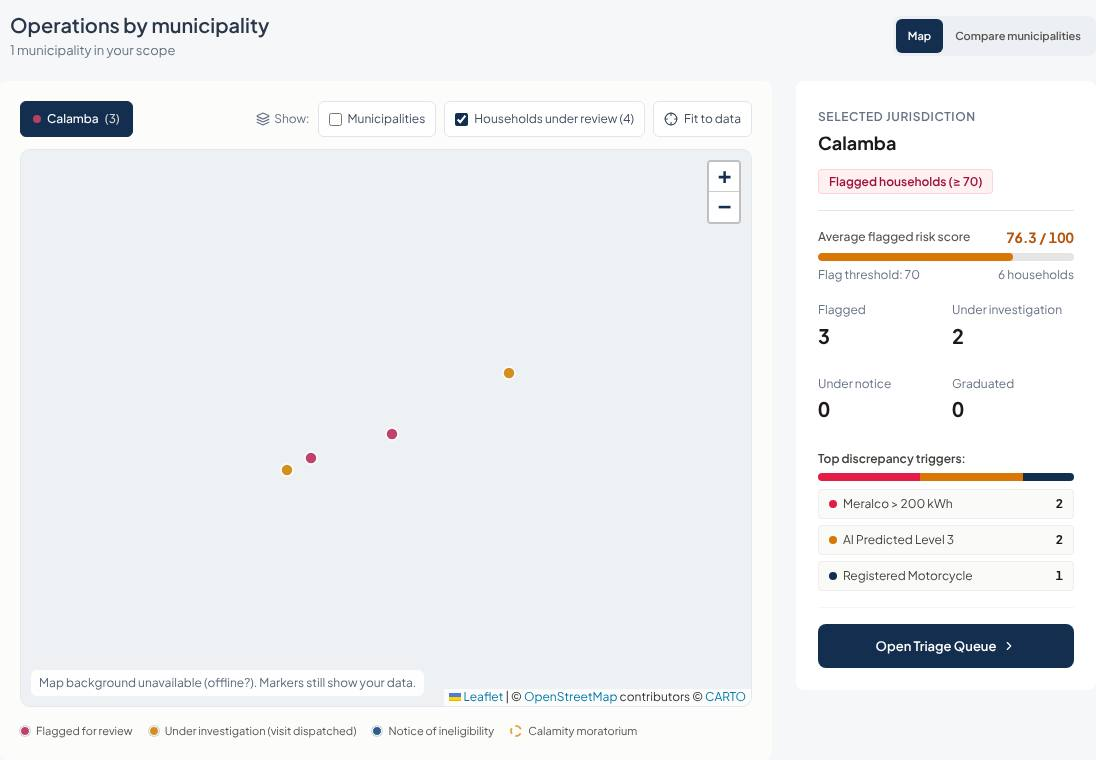
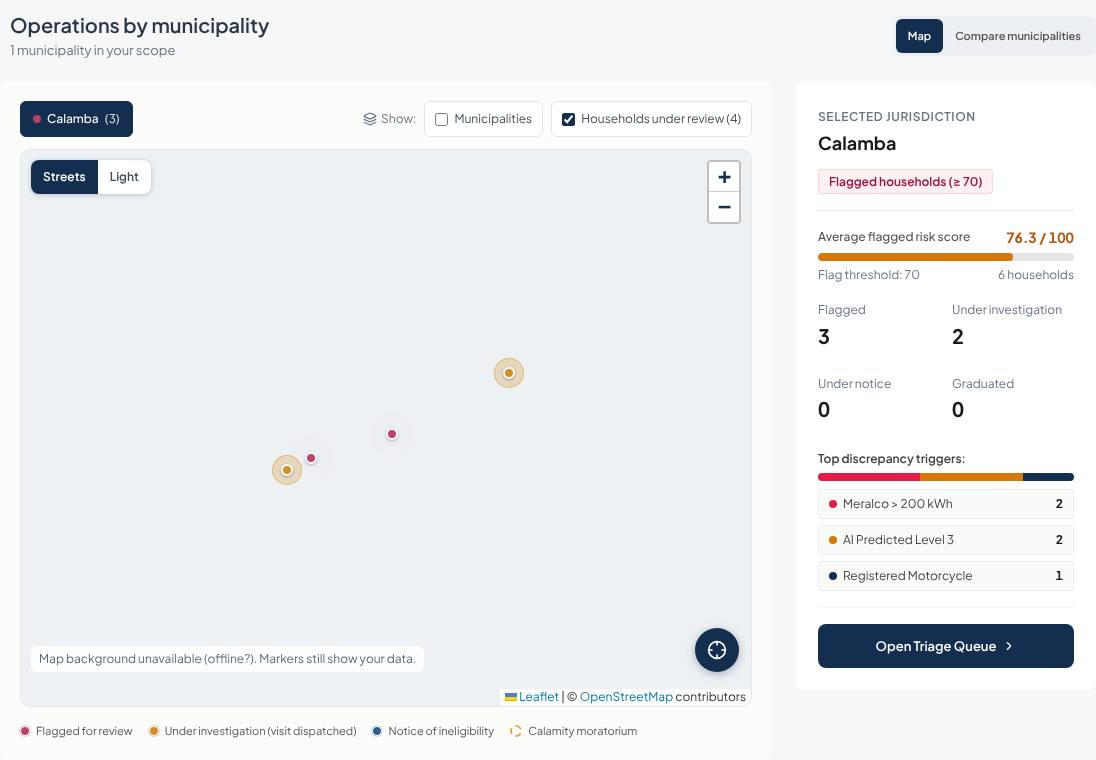
Map: Google-style street basemap, halo markers, floating controls
- Default basemap is the OpenStreetMap road map (coloured roads, parks, water,
  labels); 'Light' (CARTO Voyager) stays as an option via a Streets/Light switch.
- Household markers are dots with a soft halo in the stage colour; flagged
  households pulse (static when reduced motion is requested). Markers are
  keyboard-focusable and titled.
- Fit-to-data is a round floating button on the map.
Frontend only. test_ui_live_data.js: 107/107.

Claude-Session: https://claude.ai/code/session_0149PXwEHQoFyZipVuDzqCCL

diff --git a/client/src/components/dashboard/MinimalPhMap.tsx b/client/src/components/dashboard/MinimalPhMap.tsx
@@ -1,5 +1,6 @@
 import React, { useEffect, useMemo, useRef, useState } from 'react';
-import { CircleMarker, MapContainer, Popup, TileLayer, Tooltip, ZoomControl, useMap } from 'react-leaflet';
+import { CircleMarker, MapContainer, Marker, Popup, TileLayer, Tooltip, ZoomControl, useMap } from 'react-leaflet';
+import L from 'leaflet';
 import type { LatLngBoundsExpression, LatLngExpression } from 'leaflet';
 import { Crosshair, Layers, MapPin } from 'lucide-react';
 
@@ -44,6 +45,30 @@ const STAGES: Record<string, { color: string; label: string }> = {
   UNDER_INVESTIGATION: { color: '#d4901f', label: 'Under investigation (visit dispatched)' },
   NOTICE_OF_INELIGIBILITY: { color: '#2f5d8a', label: 'Notice of ineligibility' },
 };
+// Basemaps: "Streets" is the familiar road map (yellow/orange roads, green parks, blue water, labels);
+// "Light" is a muted style. Both are free with the attribution shown on the map.
+const BASEMAPS = {
+  streets: { label: 'Streets', url: 'https://tile.openstreetmap.org/{z}/{x}/{y}.png', subdomains: undefined as string | undefined,
+    attribution: '&copy; <a href="https://www.openstreetmap.org/copyright">OpenStreetMap</a> contributors' },
+  light: { label: 'Light', url: 'https://{s}.basemaps.cartocdn.com/rastertiles/voyager/{z}/{x}/{y}{r}.png', subdomains: 'abcd',
+    attribution: '&copy; <a href="https://www.openstreetmap.org/copyright">OpenStreetMap</a> contributors &copy; <a href="https://carto.com/attributions">CARTO</a>' },
+};
+type BasemapKey = keyof typeof BASEMAPS;
+
+// Household marker: a solid dot with a soft halo; flagged households pulse so they stand out.
+const iconCache = new Map<string, L.DivIcon>();
+function householdIcon(color: string, pulse: boolean): L.DivIcon {
+  const key = `${color}-${pulse}`;
+  if (!iconCache.has(key)) {
+    iconCache.set(key, L.divIcon({
+      className: 'hh-marker',
+      html: `<span class="hh-halo${pulse ? ' hh-pulse' : ''}" style="--c:${color}"></span><span class="hh-dot" style="--c:${color}"></span>`,
+      iconSize: [34, 34], iconAnchor: [17, 17], popupAnchor: [0, -12], tooltipAnchor: [0, -12],
+    }));
+  }
+  return iconCache.get(key)!;
+}
+
 const stageOf = (status: string) => STAGES[status] ?? { color: '#6b7789', label: status.replace(/_/g, ' ').toLowerCase() };
 
 // Keeps the view on the data: fits everything on load and flies to a selected municipality.
@@ -65,6 +90,7 @@ export const MinimalPhMap: React.FC<MinimalPhMapProps> = ({ pins, selectedCluste
   const [showMunicipalities, setShowMunicipalities] = useState(households.length === 0);
   const [showHouseholds, setShowHouseholds] = useState(true);
   const [tilesFailed, setTilesFailed] = useState(false);
+  const [basemap, setBasemap] = useState<BasemapKey>('streets');
   const [resetKey, setResetKey] = useState(0);
   const mappedHouseholds = households.filter(h => valid(h.coordinates));
   const bounds = useMemo<LatLngBoundsExpression | null>(() => {
@@ -99,18 +125,18 @@ export const MinimalPhMap: React.FC<MinimalPhMapProps> = ({ pins, selectedCluste
           <span className="flex items-center gap-1 text-stone-500"><Layers className="w-3.5 h-3.5" aria-hidden="true" />Show:</span>
           <label className="map-toggle"><input type="checkbox" checked={showMunicipalities} onChange={e => setShowMunicipalities(e.target.checked)} />Municipalities</label>
           <label className="map-toggle"><input type="checkbox" checked={showHouseholds} onChange={e => setShowHouseholds(e.target.checked)} />Households under review ({mappedHouseholds.length})</label>
-          <button type="button" className="map-toggle" onClick={() => setResetKey(k => k + 1)}><Crosshair className="w-3.5 h-3.5" aria-hidden="true" />Fit to data</button>
         </div>
       </div>
 
       <div className="live-map-canvas" role="region" aria-label="Interactive map of municipalities and flagged households. Use the municipality buttons above for keyboard access.">
         <MapContainer center={LAGUNA_CENTER} zoom={13} scrollWheelZoom={false} zoomControl={false} className="h-full w-full" attributionControl>
           <ZoomControl position="topright" />
-          <TileLayer
-            url="https://{s}.basemaps.cartocdn.com/rastertiles/voyager/{z}/{x}/{y}{r}.png"
-            attribution='&copy; <a href="https://www.openstreetmap.org/copyright">OpenStreetMap</a> contributors &copy; <a href="https://carto.com/attributions">CARTO</a>'
-            subdomains="abcd" maxZoom={19}
-            eventHandlers={{ tileerror: () => setTilesFailed(true) }}
+          <TileLayer key={basemap}
+            url={BASEMAPS[basemap].url}
+            attribution={BASEMAPS[basemap].attribution}
+            {...(BASEMAPS[basemap].subdomains ? { subdomains: BASEMAPS[basemap].subdomains } : {})}
+            maxZoom={19}
+            eventHandlers={{ tileerror: () => setTilesFailed(true), tileload: () => setTilesFailed(false) }}
           />
           <ViewController bounds={bounds} focus={focus} resetKey={resetKey} />
           {showMunicipalities && pins.filter(p => valid(p.coordinates)).map(pin => {
@@ -129,8 +155,8 @@ export const MinimalPhMap: React.FC<MinimalPhMapProps> = ({ pins, selectedCluste
             );
           })}
           {showHouseholds && mappedHouseholds.map(h => (
-            <CircleMarker key={h.household_id} center={toLatLng(h.coordinates)} radius={6}
-              pathOptions={{ color: '#ffffff', weight: 1.5, fillColor: stageOf(h.status).color, fillOpacity: 1 }}>
+            <Marker key={h.household_id} position={toLatLng(h.coordinates)} title={`${h.name}, ${stageOf(h.status).label}`}
+              icon={householdIcon(stageOf(h.status).color, h.status === 'FLAGGED_FOR_REVIEW')}>
               <Popup>
                 <div className="map-popup">
                   <strong>{h.name}</strong>
@@ -141,10 +167,18 @@ export const MinimalPhMap: React.FC<MinimalPhMapProps> = ({ pins, selectedCluste
                   {onOpenHousehold && <button type="button" onClick={() => onOpenHousehold(h.household_id)}>Open Triage Queue</button>}
                 </div>
               </Popup>
-              <Tooltip direction="top" offset={[0, -6]}>{h.name} · score {h.score.toFixed(0)}</Tooltip>
-            </CircleMarker>
+              <Tooltip direction="top">{h.name} · score {h.score.toFixed(0)}</Tooltip>
+            </Marker>
           ))}
         </MapContainer>
+        <div className="map-basemap-switch" role="group" aria-label="Map style">
+          {(Object.keys(BASEMAPS) as BasemapKey[]).map(key => (
+            <button key={key} type="button" aria-pressed={basemap === key} onClick={() => setBasemap(key)}>{BASEMAPS[key].label}</button>
+          ))}
+        </div>
+        <button type="button" className="map-fit-button" onClick={() => setResetKey(k => k + 1)} aria-label="Fit map to the data" title="Fit map to the data">
+          <Crosshair className="w-5 h-5" aria-hidden="true" />
+        </button>
         {tilesFailed && <p className="map-offline-note" role="status">Map background unavailable (offline?). Markers still show your data.</p>}
       </div>
 

diff --git a/client/src/styles/workspace.css b/client/src/styles/workspace.css
@@ -382,3 +382,22 @@
 .map-popup-stage { display: inline-flex; align-items: center; gap: 6px; }
 .map-popup-stage i { width: 9px; height: 9px; border-radius: 50%; }
 .live-map-canvas .leaflet-control-zoom a { width: 34px; height: 34px; line-height: 34px; color: #132e4f; }
+
+/* Household markers: solid dot + soft halo (pulsing for flagged households). */
+.hh-marker { background: none; border: 0; }
+.hh-marker .hh-halo, .hh-marker .hh-dot { position: absolute; left: 50%; top: 50%; border-radius: 50%; transform: translate(-50%, -50%); }
+.hh-marker .hh-halo { width: 30px; height: 30px; background: color-mix(in srgb, var(--c) 26%, transparent); border: 1px solid color-mix(in srgb, var(--c) 45%, transparent); }
+.hh-marker .hh-dot { width: 12px; height: 12px; background: var(--c); border: 2px solid #fff; box-shadow: 0 1px 3px rgb(19 46 79 / 35%); }
+.hh-marker .hh-pulse { animation: hh-pulse 2.2s ease-out infinite; }
+@keyframes hh-pulse { 0% { transform: translate(-50%, -50%) scale(.55); opacity: .95; } 100% { transform: translate(-50%, -50%) scale(1.35); opacity: 0; } }
+.hh-marker:focus-visible { outline: none; }
+.hh-marker:focus-visible .hh-dot { outline: 3px solid #132e4f; outline-offset: 2px; }
+@media (prefers-reduced-motion: reduce) { .hh-marker .hh-pulse { animation: none; } }
+
+/* Floating map controls, styled like the zoom buttons. */
+.map-basemap-switch { position: absolute; left: 10px; top: 10px; z-index: 500; display: inline-flex; overflow: hidden; border-radius: 8px; background: #fff; box-shadow: 0 1px 5px rgb(19 46 79 / 25%); }
+.map-basemap-switch button { min-height: 34px; padding: 4px 12px; color: #3f4c5e; font-size: 12px; font-weight: 600; cursor: pointer; }
+.map-basemap-switch button[aria-pressed='true'] { background: #132e4f; color: #fff; }
+.map-fit-button { position: absolute; right: 12px; bottom: 34px; z-index: 500; display: inline-flex; width: 44px; height: 44px; align-items: center; justify-content: center; border-radius: 50%; background: #132e4f; color: #fff; box-shadow: 0 2px 8px rgb(19 46 79 / 35%); cursor: pointer; }
+.map-fit-button:hover { background: #0c2340; }
+.map-offline-note { left: 10px; bottom: 34px; }

diff --git a/data-pipeline/scripts/test_ui_live_data.js b/data-pipeline/scripts/test_ui_live_data.js
@@ -183,9 +183,15 @@ async function browserChecks(t, facts) {
         const r = await call('GET', `/beneficiaries/triage-queue?status=${status}&limit=100`, { token: t.director.token });
         expectedDots += r.data.items.filter(i => Array.isArray(i.address?.coordinates)).length;
       }
-      await page.locator('.live-map-canvas path.leaflet-interactive').first().waitFor({ timeout: 15000 });
-      const dots = await page.locator('.live-map-canvas path.leaflet-interactive').count();
+      await page.locator('.live-map-canvas .hh-marker').first().waitFor({ timeout: 15000 });
+      const dots = await page.locator('.live-map-canvas .hh-marker').count();
       check(`${size} director map: one dot per household under review (${expectedDots})`, dots === expectedDots, dots);
+      await page.locator('.map-basemap-switch button', { hasText: 'Light' }).click();
+      await page.locator('.map-basemap-switch button', { hasText: 'Streets' }).click();
+      await page.locator('.live-map-canvas .hh-marker').first().click();
+      check(`${size} director map: style switch keeps the dots and a dot opens its popup`,
+        (await page.locator('.live-map-canvas .hh-marker').count()) === expectedDots &&
+        await page.locator('.leaflet-popup .map-popup').isVisible());
       await noOverflow(page, `${size} director dashboard`); await shot(page, `${size}-director-dashboard`);
       await nav(page, /Caseworker Dispatch/);
       await page.getByText('UI live-data check').first().waitFor({ state: 'attached', timeout: 10000 }).catch(() => {});

diff --git a/deploy/HOSTING_GUIDE.md b/deploy/HOSTING_GUIDE.md
@@ -19,7 +19,7 @@ You create the three accounts and paste the secrets. Nothing secret is committed
 | The free Render filesystem is ephemeral (no disk). | Uploaded evidence photos are lost when the API restarts or sleeps. The SHA-256 hash, GPS and EXIF data stay in MongoDB and in the audit ledger. | Acceptable for a demo. Production needs a paid disk or object storage, which is out of scope. |
 | Render gives 750 free instance hours per month, shared by all free services. | Two services running all day use about 1,440 hours. Because they sleep when idle, normal demo use fits. | Do not ping them to keep them awake. |
 | Atlas M0: about 512 MB of storage, shared CPU, no backups. | Measured: the 80k baseline is 160,015 documents, about 102 MB of data plus indexes (8.4 MB compressed dump). It fits. The national overview took 0.35 s locally on 80k; expect a few seconds on shared M0. `SEED_80K=0` gives a small, fast demo database. | Re-run `deploy/atlas_seed.sh` to reset the demo. |
-| The dashboard map loads street tiles from CARTO (OpenStreetMap data). Free use requires the on-map attribution, which is shown, and is meant for non-commercial projects. | The map needs internet. Offline, the dots still show on a plain background. | Nothing to configure. |
+| The dashboard map loads street tiles from OpenStreetMap ("Streets", the default) or CARTO ("Light"). Both are free with the on-map attribution, which is shown. They are meant for light, non-commercial use; a capstone demo is fine, heavy production traffic is not. | The map needs internet. Offline, the dots still show on a plain background. | Nothing to configure. |
 | Render free services have no fixed outbound IP. | Atlas must accept connections from anywhere (`0.0.0.0/0`). | The connection is TLS and password-protected. Use long random passwords. |
 
 These limits were checked against Render's [free-tier documentation](https://render.com/docs/free) and Atlas's [free-cluster limits](https://www.mongodb.com/docs/atlas/reference/free-shared-limitations/) (October 2026). Re-check them if a step behaves differently.

diff --git a/docs/testing/MANUAL_TEST_SCENARIOS.md b/docs/testing/MANUAL_TEST_SCENARIOS.md
@@ -76,7 +76,7 @@ The ledger is empty. Every block you see later was created by your own actions.
 - *Flagged* tab:
   - triggers Meralco > 200 kWh (2), AI Predicted Level 3 (2), Registered Motorcycle (1);
   - severity 2 critical / 2 high / 3 below 70.
-- The map is a street map you can drag and zoom (buttons at the top right). It shows one dot per household under review, coloured by stage: rose = flagged, amber = visit dispatched, blue = under notice. Click a dot for the name, score and a button to the Triage Queue. Tick **Municipalities** to see the Calamba circle. The inspector shows 7 households.
+- The map is a road map like Google Maps (main roads in yellow and orange, parks, water, street labels) that you can drag and zoom (buttons at the top right). Switch **Streets / Light** at the top left; the round button at the bottom right fits the map to the data. It shows one dot per household under review, coloured by stage: rose = flagged (pulsing halo), amber = visit dispatched, blue = under notice. Click a dot for the name, score and a button to the Triage Queue. Tick **Municipalities** to see the Calamba circle. The inspector shows 7 households.
 - "Current workload → High-risk beneficiaries" also says **4**. Both come from the server with the same scope.
 - No "Sample data" label anywhere.
 
